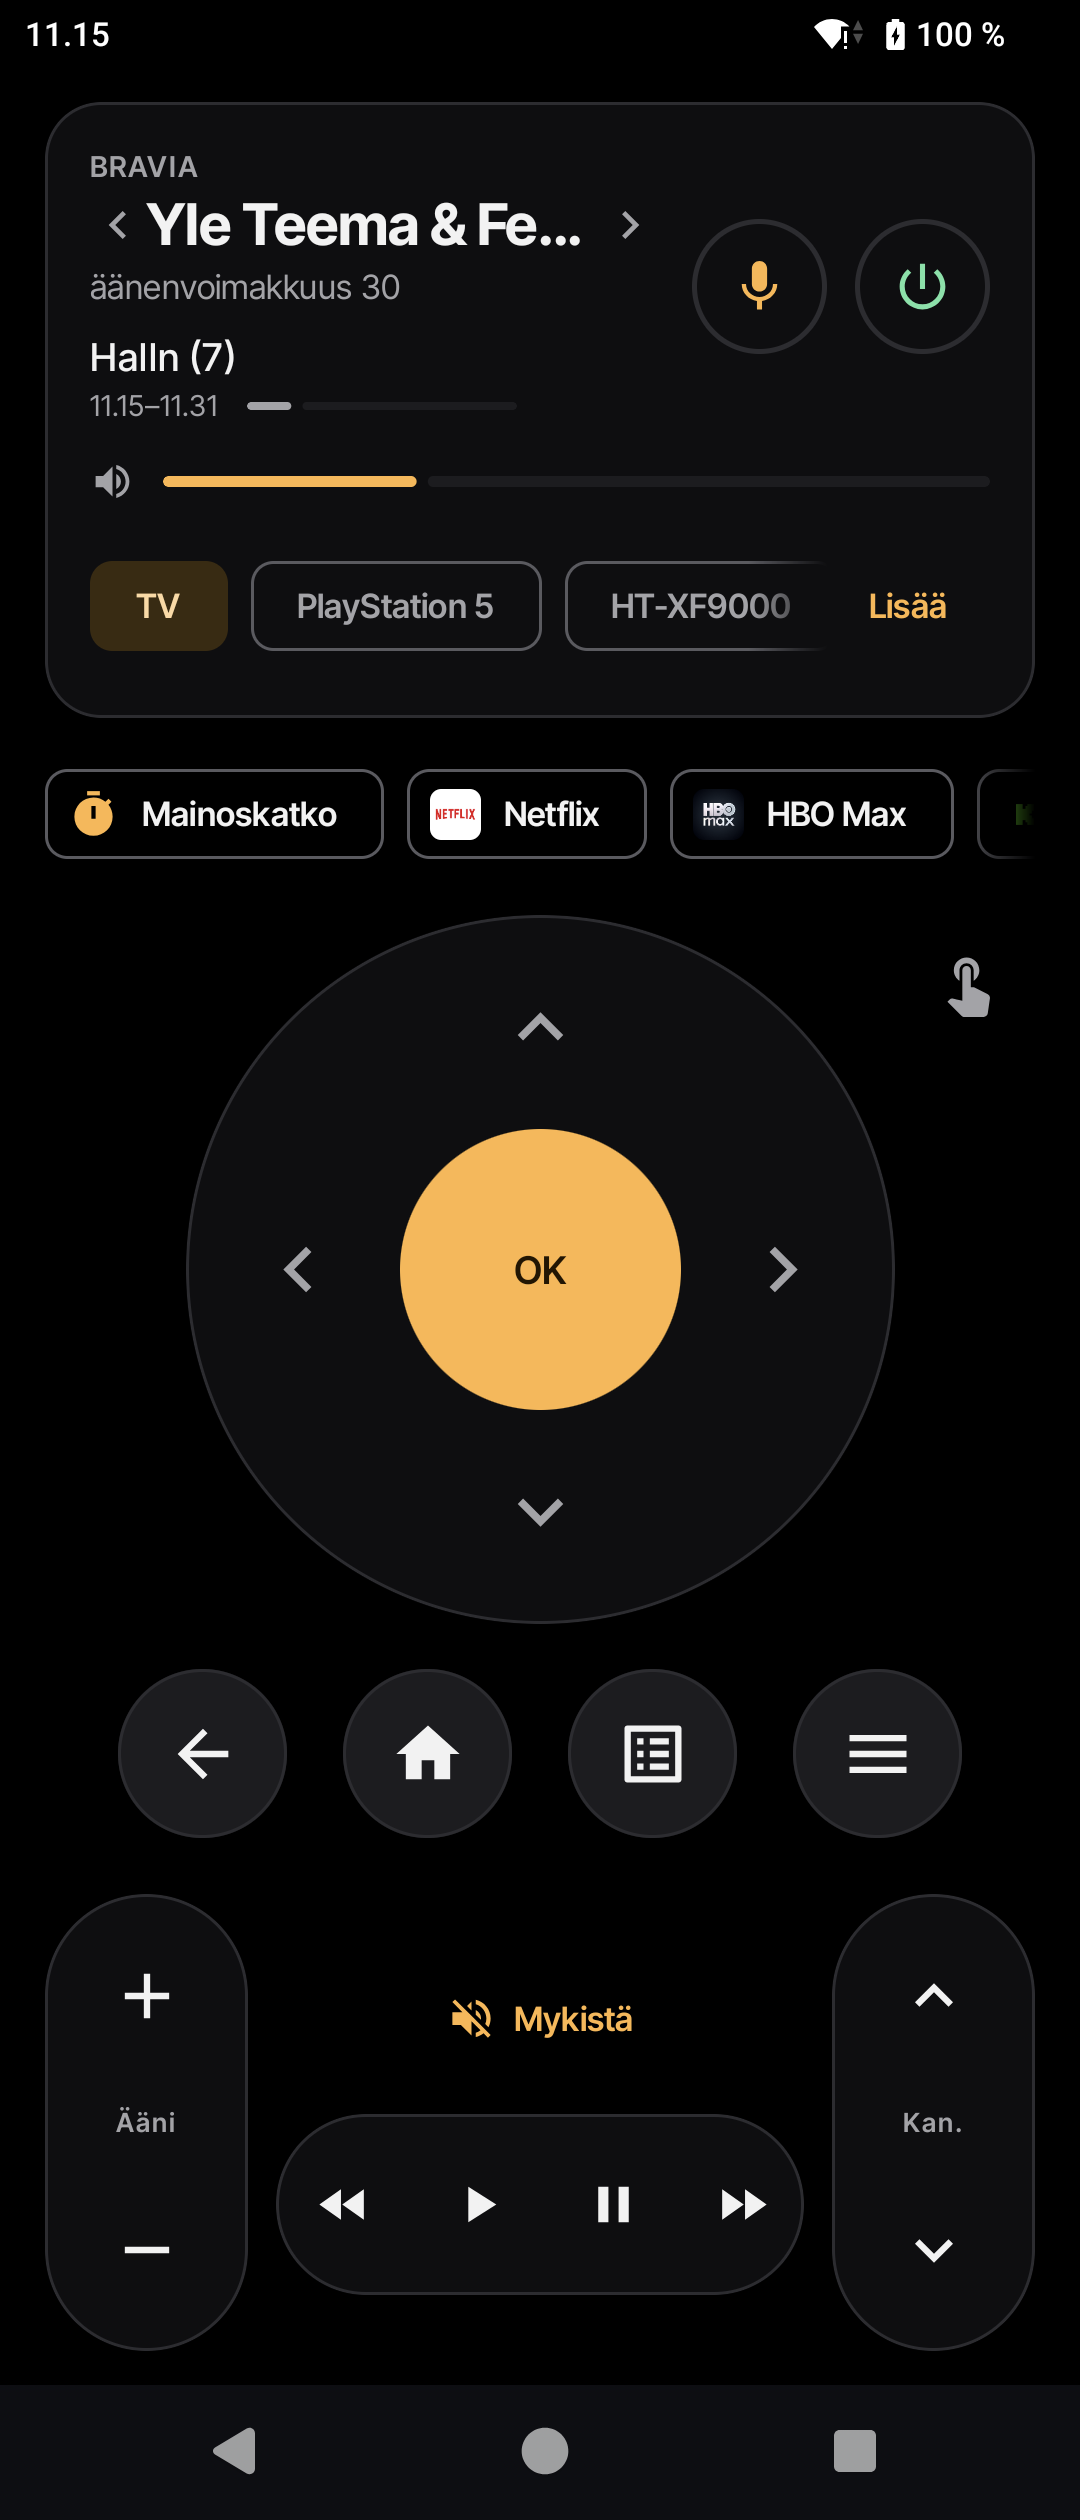
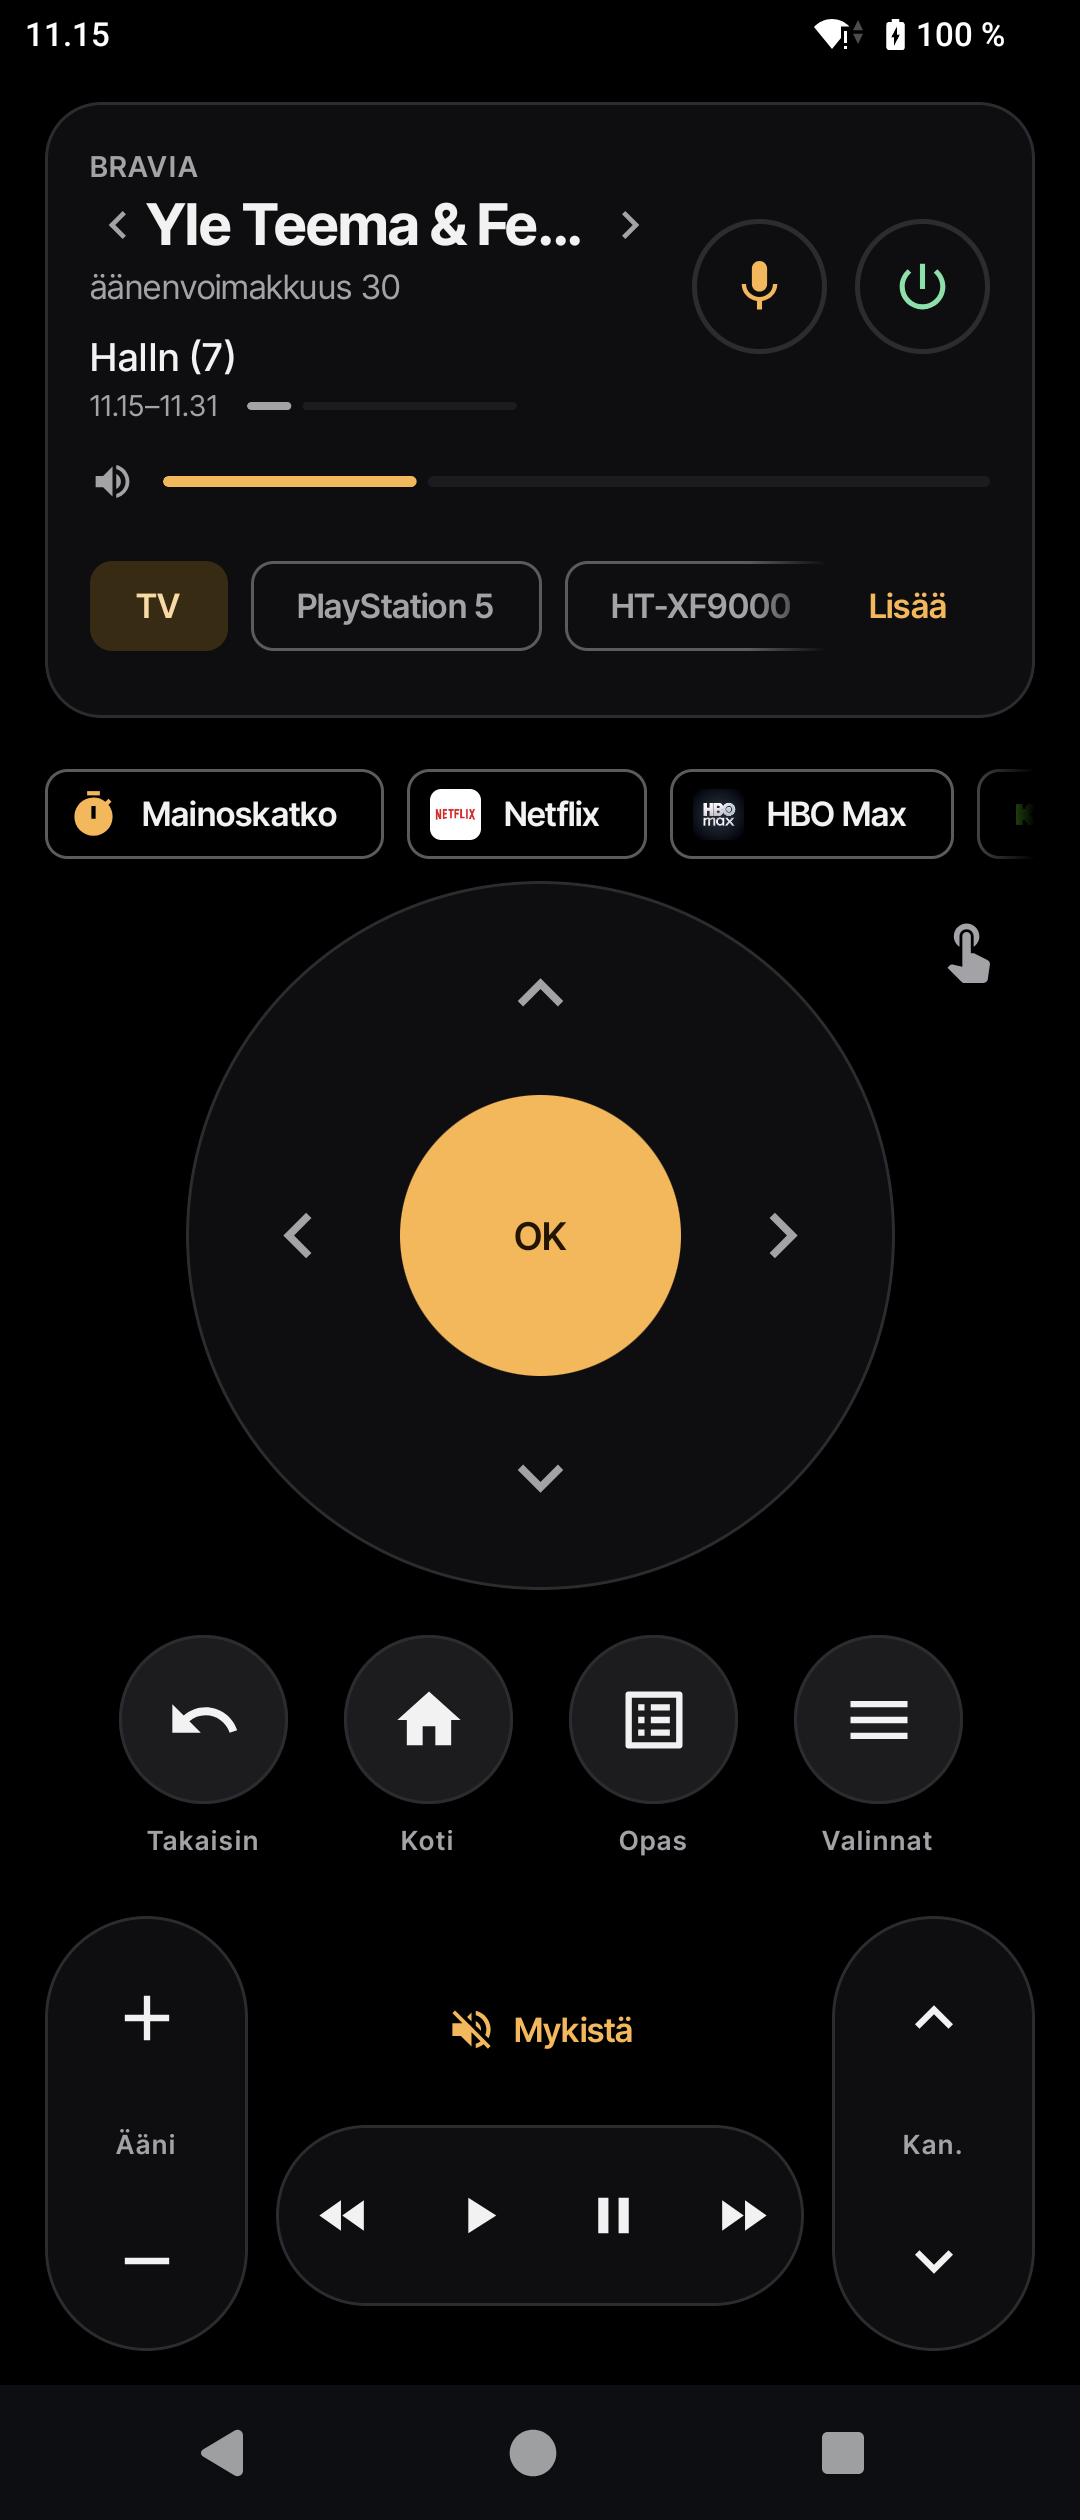
Release 1.5.2: fast keys on several devices, scenes win back HDMI, captioned keys
Store screenshots 1, 2 and 7, the feature graphic, the site's remote
images and its share image show the captioned Back, Home, Guide and
Options keys.

diff --git a/site/index.html b/site/index.html
@@ -45,7 +45,7 @@
       "applicationCategory": "UtilitiesApplication",
       "applicationSubCategory": "TV remote control",
       "operatingSystem": "Android 8.0 or newer",
-      "softwareVersion": "1.5.1",
+      "softwareVersion": "1.5.2",
       "inLanguage": [
         "en",
         "fi"

diff --git a/site/tools/seo.py b/site/tools/seo.py
@@ -55,7 +55,7 @@ def json_ld(page):
         "applicationCategory": "UtilitiesApplication",
         "applicationSubCategory": "TV remote control",
         "operatingSystem": "Android 8.0 or newer",
-        "softwareVersion": "1.5.1",
+        "softwareVersion": "1.5.2",
         "inLanguage": ["en", "fi"],
         "isAccessibleForFree": True,
         "license": "https://www.gnu.org/licenses/gpl-3.0.html",

diff --git a/AGENTS.md b/AGENTS.md
@@ -56,8 +56,10 @@ Play only allows `USE_EXACT_ALARM` for alarm/calendar apps, so the app uses the 
 - "Fast keys" use the TV's Android TV Remote Service (TLS, ports 6467 pairing / 6466 keys).
   The phone's identity is a Keystore RSA key (`AtvIdentity`). Conscrypt signs the TLS 1.2
   handshake with raw RSA, so that key must allow `ENCRYPTION_PADDING_NONE` and `DIGEST_NONE`;
-  without them the handshake fails with `INCOMPATIBLE_PADDING_MODE`. The TV's certificate from
-  pairing is kept in `CredentialStore` and marks the TV as paired.
+  without them the handshake fails with `INCOMPATIBLE_PADDING_MODE`. The TV tells paired clients
+  apart by certificate subject and serial number, so each install's are random; up to 1.5.1 all
+  installs shared one, and pairing a second device replaced the first one's pairing. The TV's
+  certificate from pairing is kept in `CredentialStore` and marks the TV as paired.
 - `TvController` keeps the fast key channel (`AtvRemote`) open only while the remote screen is
   in the foreground and the TV is on. Every key still goes through the one send queue; the
   transport is picked when its turn comes (`RemoteKey.atvKeyCode` non-null and channel open),

diff --git a/fastlane/PLAY_CONSOLE.md b/fastlane/PLAY_CONSOLE.md
@@ -1,6 +1,6 @@
 # Play Console checklist: Sohva Remote
 
-The answers below match the code as of 1.5.1 (versionCode 10).
+The answers below match the code as of 1.5.2 (versionCode 11).
 
 ## 0. Status
 
@@ -174,8 +174,8 @@ No / None / No.
       crash on the first-run / no-TV path).
 - [ ] Store listing: upload `icon.png`, `featureGraphic.png`, `phoneScreenshots/1-7.png` and
       `tenInchScreenshots/1-4.png` (Galaxy Tab A9+, three landscape, one portrait) for en-US and fi-FI (or `fastlane supply --skip_upload_apk --skip_upload_aab`).
-- [ ] Release notes from `changelogs/<versionCode>.txt` (the first Play upload is versionCode 10,
-      `changelogs/10.txt`; 3-9 went out only as GitHub APKs).
+- [ ] Release notes from `changelogs/<versionCode>.txt` (the first Play upload is versionCode 11,
+      `changelogs/11.txt`; 3-10 went out only as GitHub APKs).
 - [ ] Countries: Finland first (plus the Nordics/EU if wanted). The app works anywhere with a Bravia.
 - [ ] Optional: promo video URL in `video.txt` (see `fastlane/VIDEO.md`).
 - [ ] After approval: staged rollout (e.g. 20%) and watch Android vitals for ANRs/crashes.

diff --git a/README.md b/README.md
@@ -118,7 +118,8 @@ network. The TV's cookie, PSK and Android TV Remote certificate are stored encry
 - With an HDMI-CEC soundbar the TV moves the volume two steps per key and one step per
   "set volume" call; the app steps and reads back to reach a level.
 - Devices found over HDMI-CEC (e.g. a PS5) are listed only while awake; scenes save
-  them by HDMI port so they still work when the device sleeps.
+  them by HDMI port so they still work when the device sleeps. A console or soundbar can take
+  the screen back over HDMI-CEC right after a channel scene; the scene checks and switches again.
 - Apps with their own on-screen keyboard (YouTube) don't raise the TV's keyboard, so
   there is nothing to type into.
 - Live TV can't be previewed on the phone (protected video).
